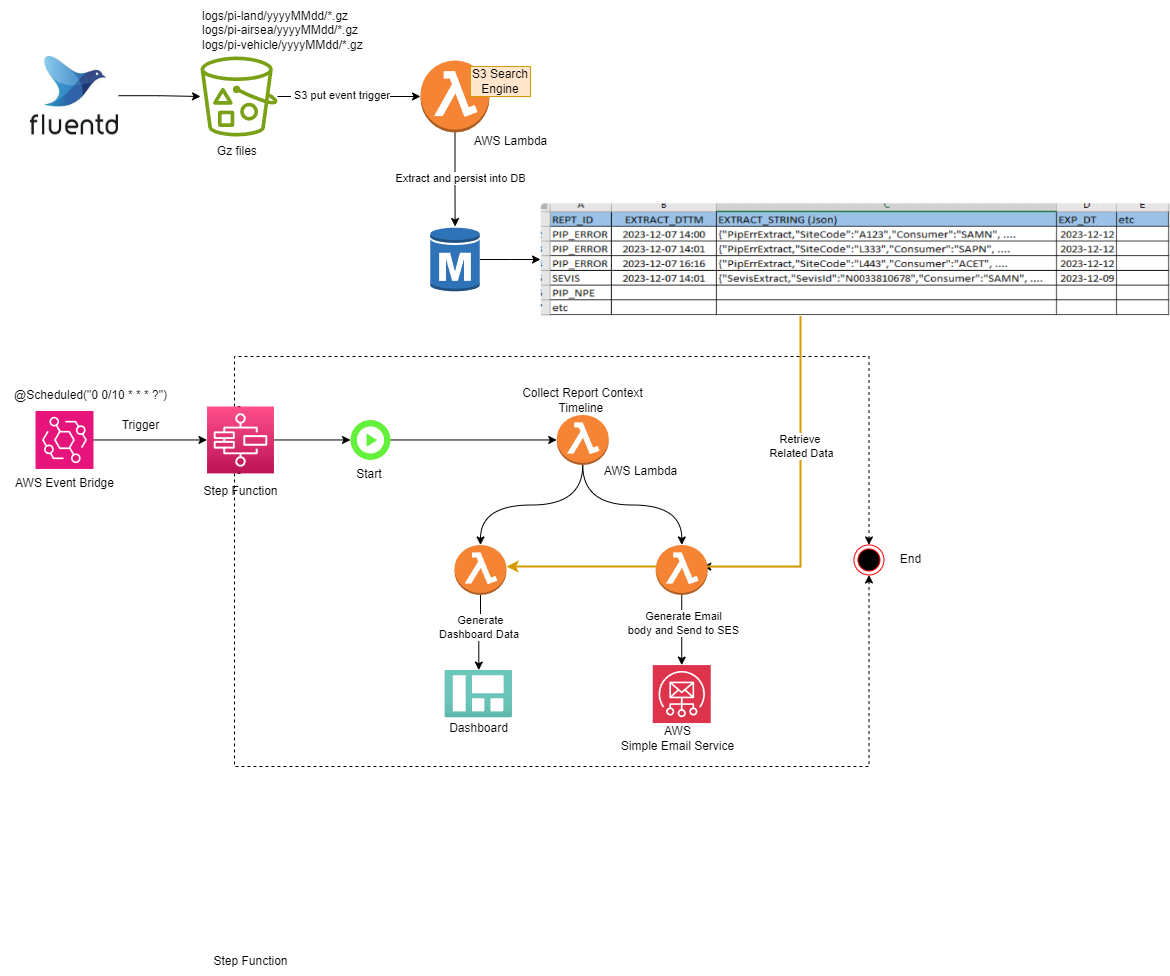
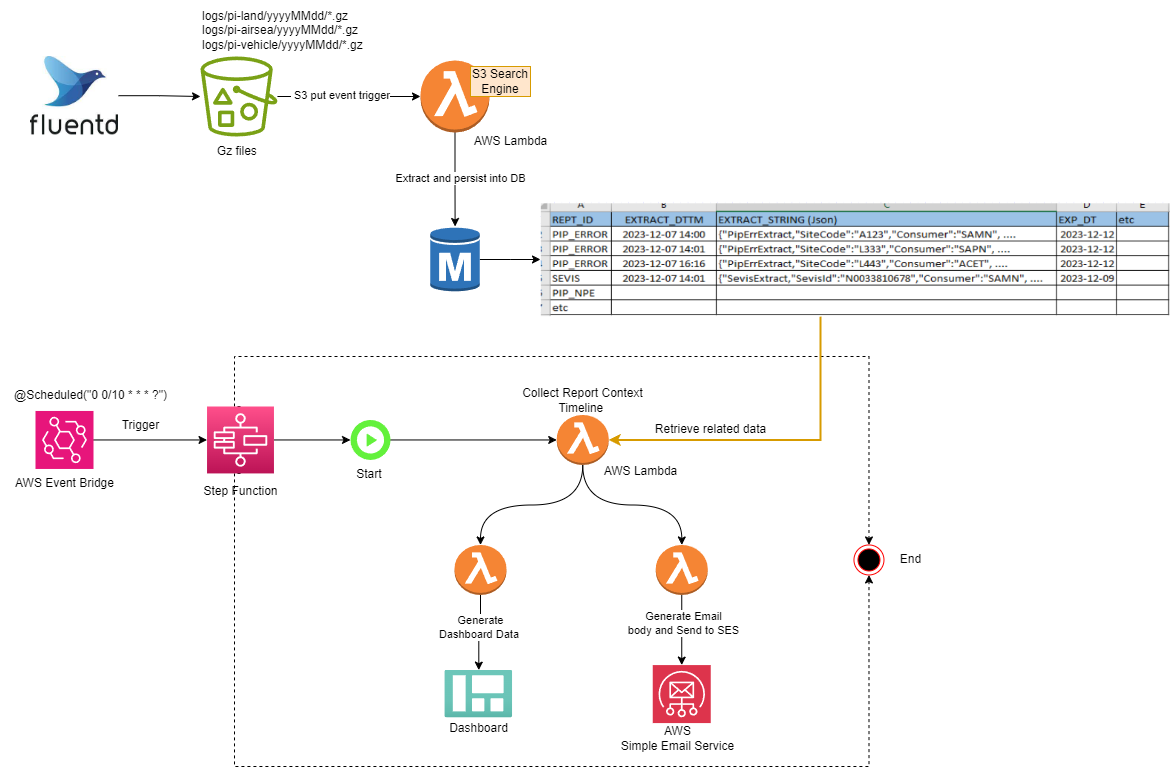
update design documentation

diff --git a/README.md b/README.md
@@ -1,29 +1,43 @@
 # aws batch job for S3 log error report
 
-This document outlines a batch job solution for extracting S3 logs error message and send email to development team.
+This architectural design is a batch process designed to extract error messages from the application log files stored in an S3 bucket and subsequently send EMails to the production support team. It utilizes the project [S3 log search](https://github.com/github4daniel/s3logSearch) as search engine. The <B> <I>S3 log search</B></I> is web application doing free text search for the gz file stored in S3 bucket.
+  
 
-### 1. What this project is about
+### 1. Business Requirements
 
-This project is a web application that allows users to manage their tasks and schedules effectively. It provides a user-friendly interface for creating, updating, and organizing tasks, helping users stay organized and productive.
+FluntD collects application logs, archives them, and periodically transfers the archived file to an S3 bucket when the buffer is full. A backend process is required to handle the log information, categorize and generate statistics, and then send Emails to the production support team
 
 ### 2. Design
 
-The design of the application follows a clean and modern aesthetic. The user interface is intuitive, with a focus on simplicity and ease of use. The color scheme promotes a calm and focused environment, enhancing the user's experience.
+The defining characteristics of the application is its on-demand nature, eliminating the necessity for continuous 24/7 operation like traditional service or server. To best align with this requirement, the optimal solution is to leverage AWS Serverless architect for the application. The following architecture diagram is what I propose. 
+
+ <li>Upon FluentD placing a log file into the S3 bucket, the S3 system generate a ObjectPutEvent. The event serves as a trigger for the Lambda function. The Lambda function (S3 Search Engine in diagram) is responsible for extracting pertinent log information from file and subsequently saving into the database.  This Lambda function is similar to S3 log search we implemented.
+ </li></br>
+ <li>
+ AWS EventBridge acts as a time scheduler, trigger a AWS Step Function. The entry Lambda function collects event context, such as the type of error, time lines for log entries and search the error message in log files.
+</li></br>
+<li>
+The first branch of Lambda is dedicated to aggregating and processing error data for email content generation, and utilize AWS Simple Email Service (SES) to send email to recipients.
+The second branch of  Lambda is responsible for aggregating and processing error data as well, but it focus on generating data for the Dashboard.
+</li></br>
 
 ![Step Function](img/awsstepfunction.png)
-*Figure 1: Step Function
 
-## Section: How to Run
+*Figure 1: Architecture Diagram batch Job for S3 log error extraction
 
-### 1. Prerequisites
+### 3. Selection of AWS services
 
-Before running the project, ensure that you have the following prerequisites installed:
-- Node.js v14 or higher
-- npm (Node Package Manager)
+Team has propose other AWS service technologies for evaluation:
 
-### 2. Running the Project
+<li><B>AWS Glue + Athena: </B>
+AWS Glue serves as an ETL (Extract, Transform, Load) tool, dedicated to the preparation and transformation of data. It automatically discovers, catalogs, and transforms data from various sources. AWS Glue use Crawlers for discovering metadata from diverse data sources. Athena functions as a query tool, enabling the selection of subsets of the prepared and transformed data stored in Amazon S3. Together, AWS Glue and Athena contribute to a comprehensive data processing and querying workflow.
 
-1. Clone the repository to your local machine:
+<li><B>AWS Step Function: </B>
+AWS step function is a fully managed AWS web service that enables you to coordinate and orchestrate multiple service into Serverless workflow. It supports parallel processing.
 
-   ```bash
-   git clone https://github.com/your-username/project.git
+<li><B>AWS Batch: </B>
+AWS batch is a fully managed AWS web service that allow you to run batching computing workloads on the AWS cloud.  You can provision EC2 and docker or Serverless Fargate (without provision EC2 instance). The AWS batch is suitable for long running process.  
+
+
+### 4. AWS Service Provision
+Use Terraform as AWS provision tool.
